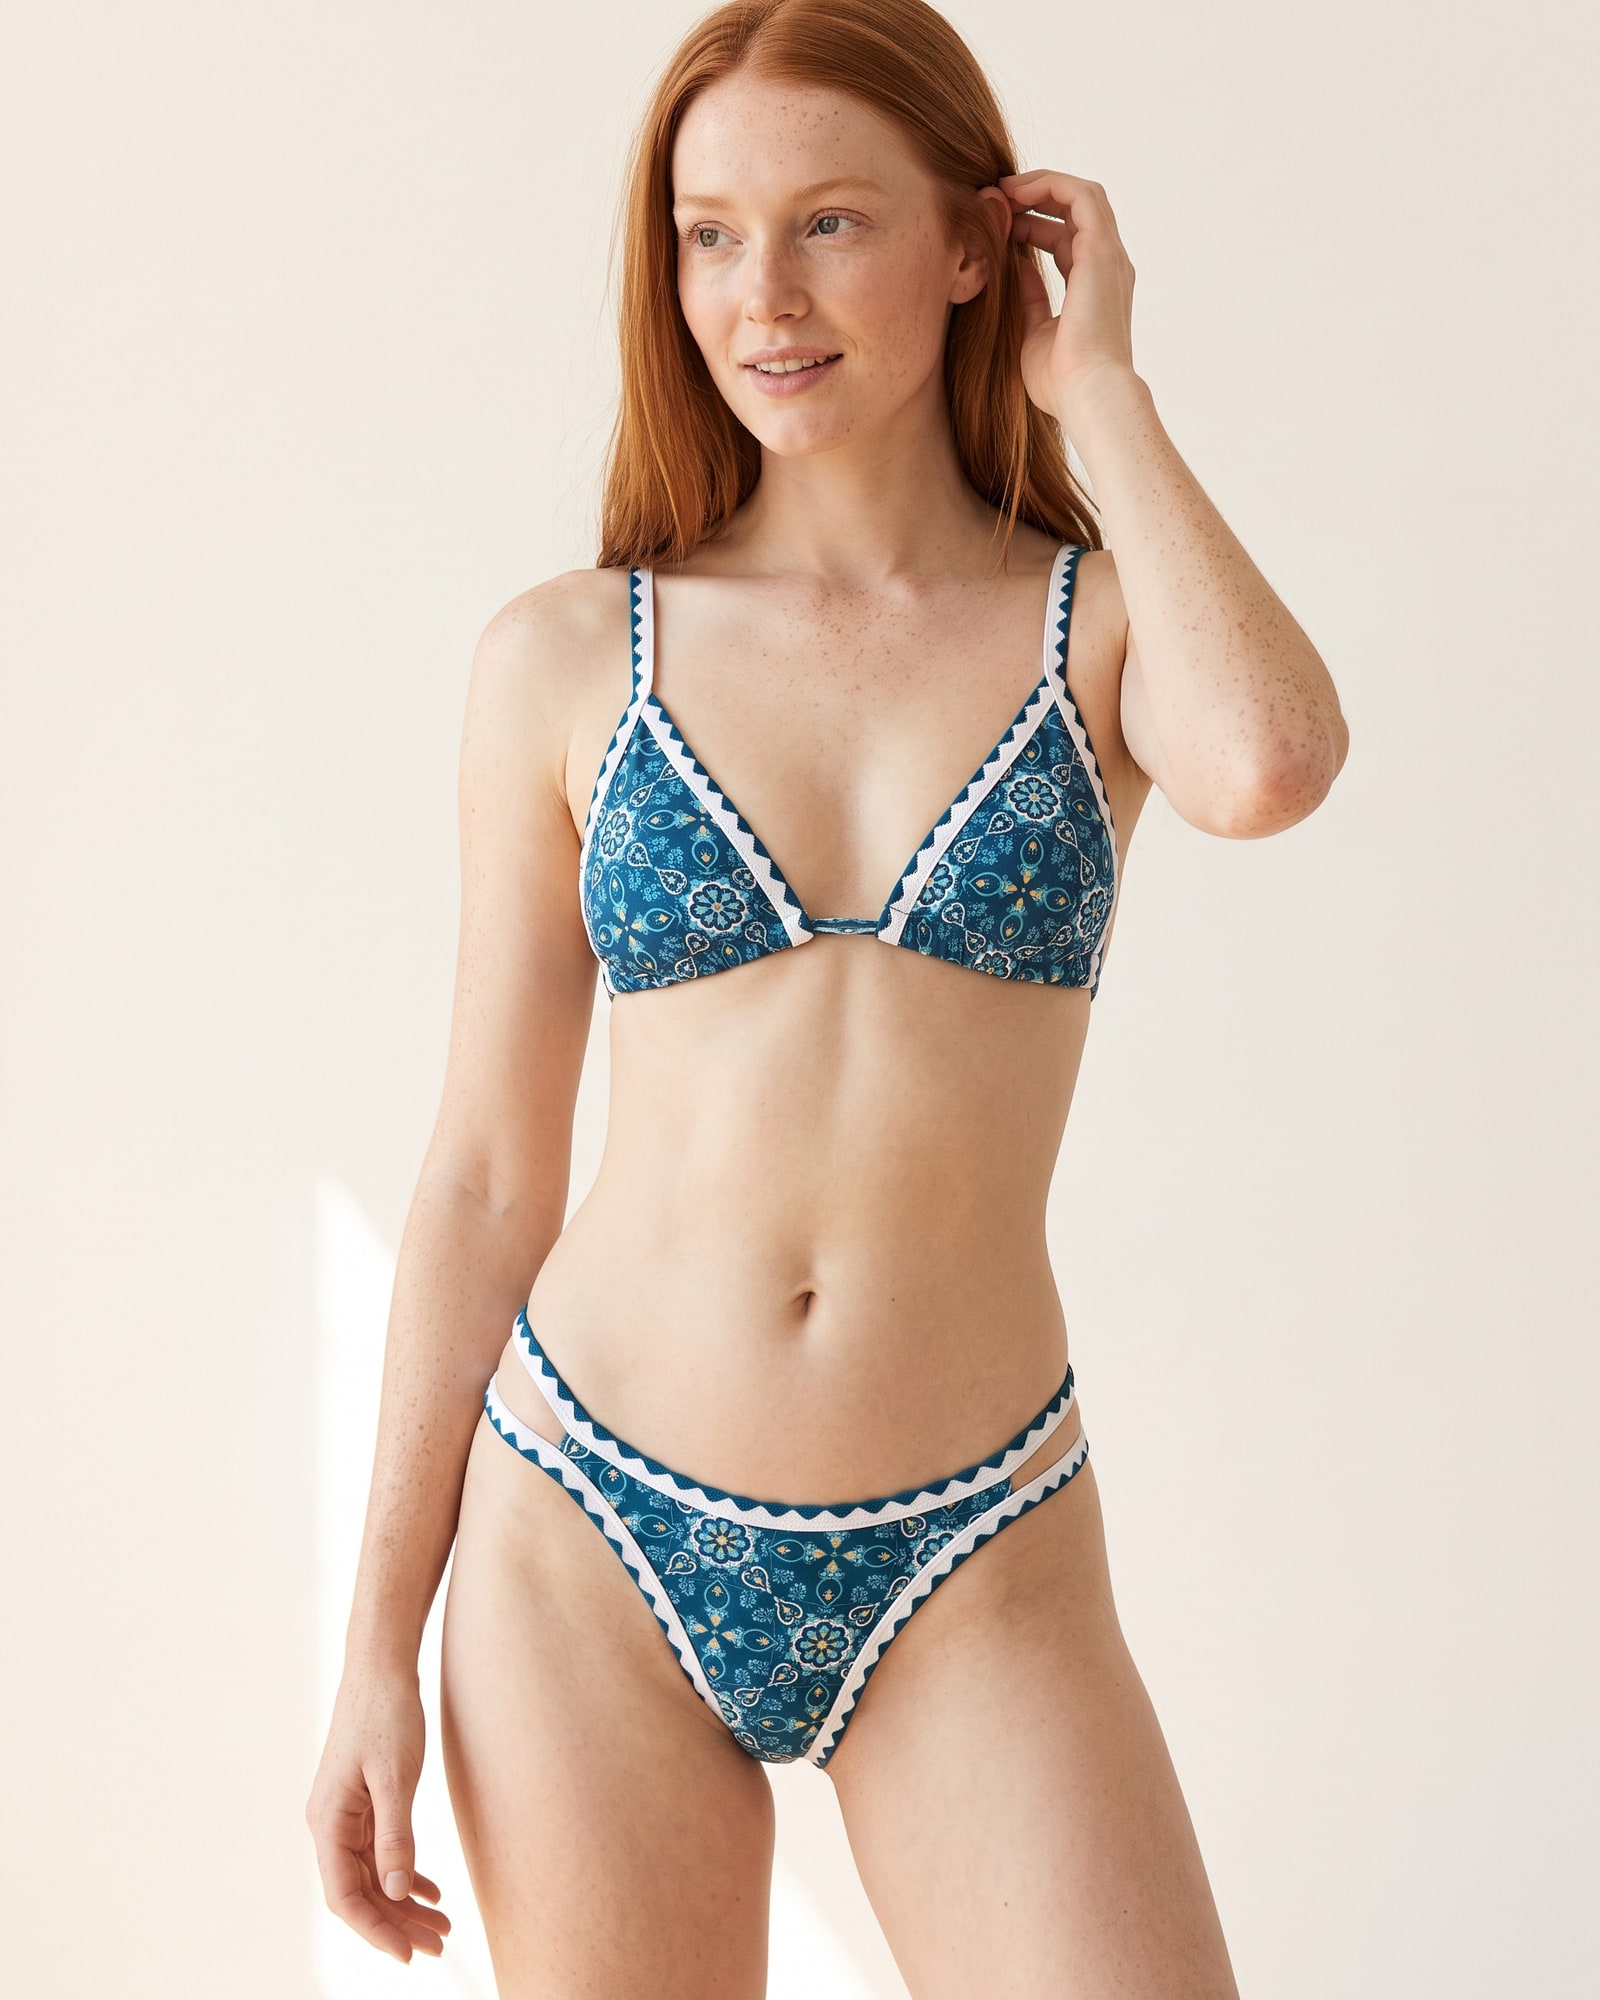
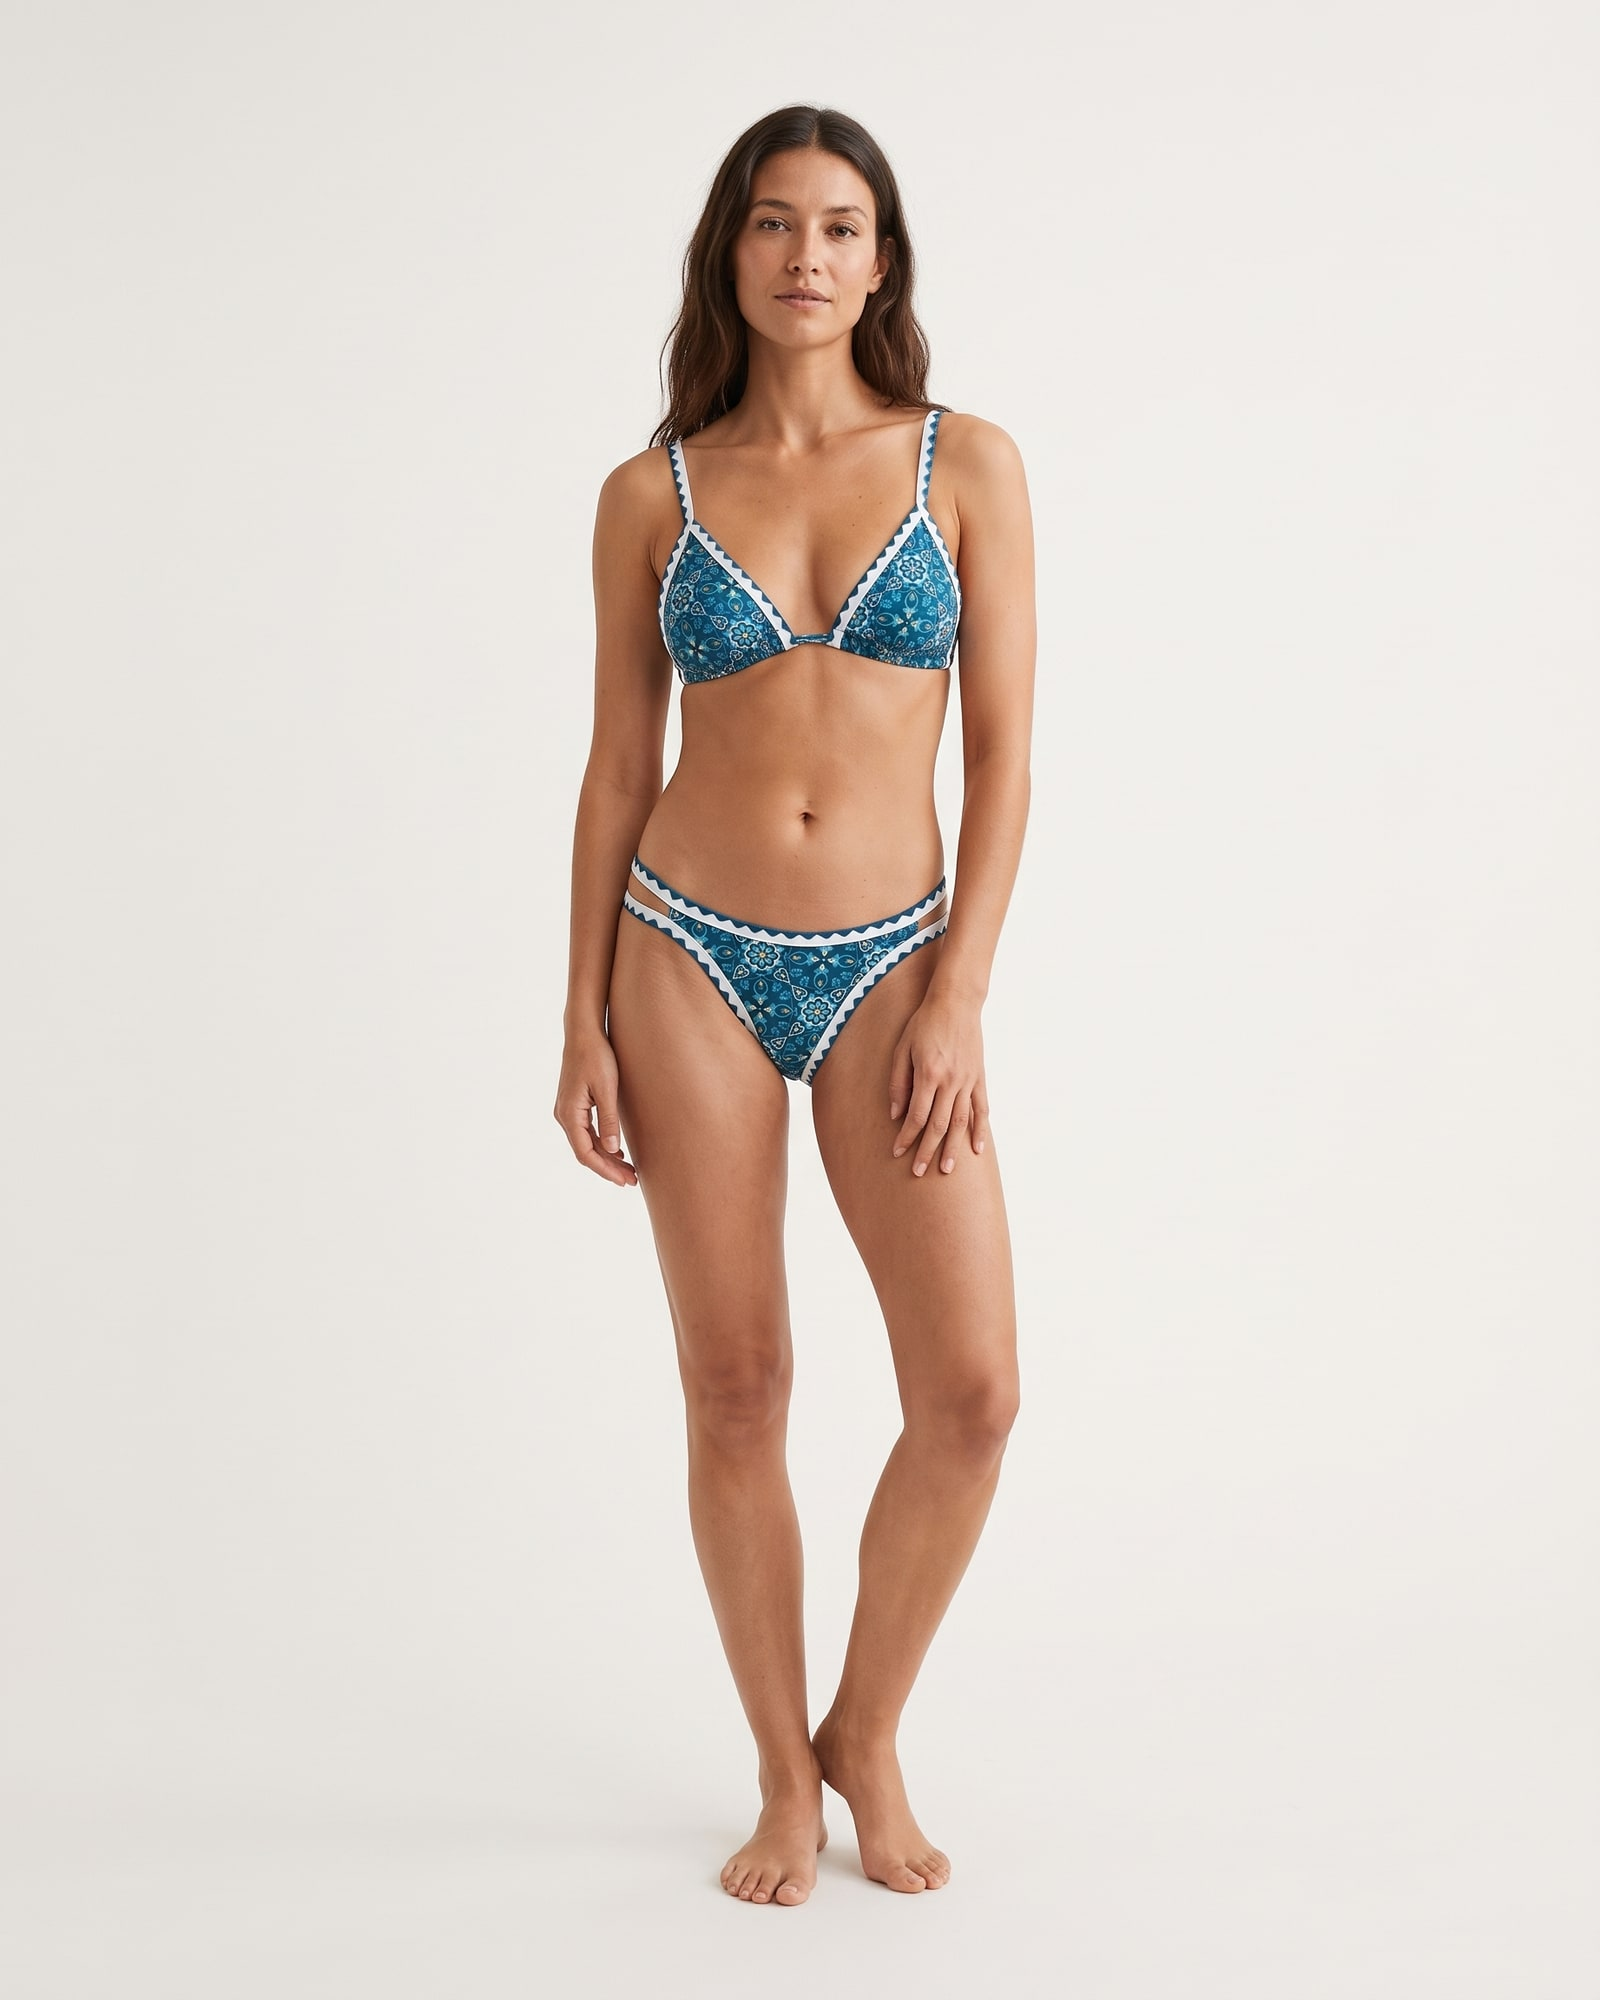
Neue KI-Bilder: Dunkelblau-Model, Weinrot-Packshot, Violett-Rays-Model, Mandala Hellblau/Petrol neu (Kopf ganz)
Model-Zuschnitt achtet jetzt auch auf die Füsse: passen Kopf und Füsse
nicht beide in 4:5, wird die Wand seitlich verlängert statt unten zu schneiden.

diff --git a/src/app/feed/google.xml/route.ts b/src/app/feed/google.xml/route.ts
@@ -65,7 +65,7 @@ function absolute(path: string): string {
  * austauscht oder bearbeitet, erhöht diesen Wert — dann lädt Google alle
  * Bilder beim nächsten Feed-Abruf frisch.
  */
-const IMAGE_VERSION = "2026-10-19";
+const IMAGE_VERSION = "2026-10-24";
 const imageUrl = (path: string) => `${absolute(path)}?v=${IMAGE_VERSION}`;
 
 const OVERRIDES = imageOverrides as Record<string, Record<string, string>>;
